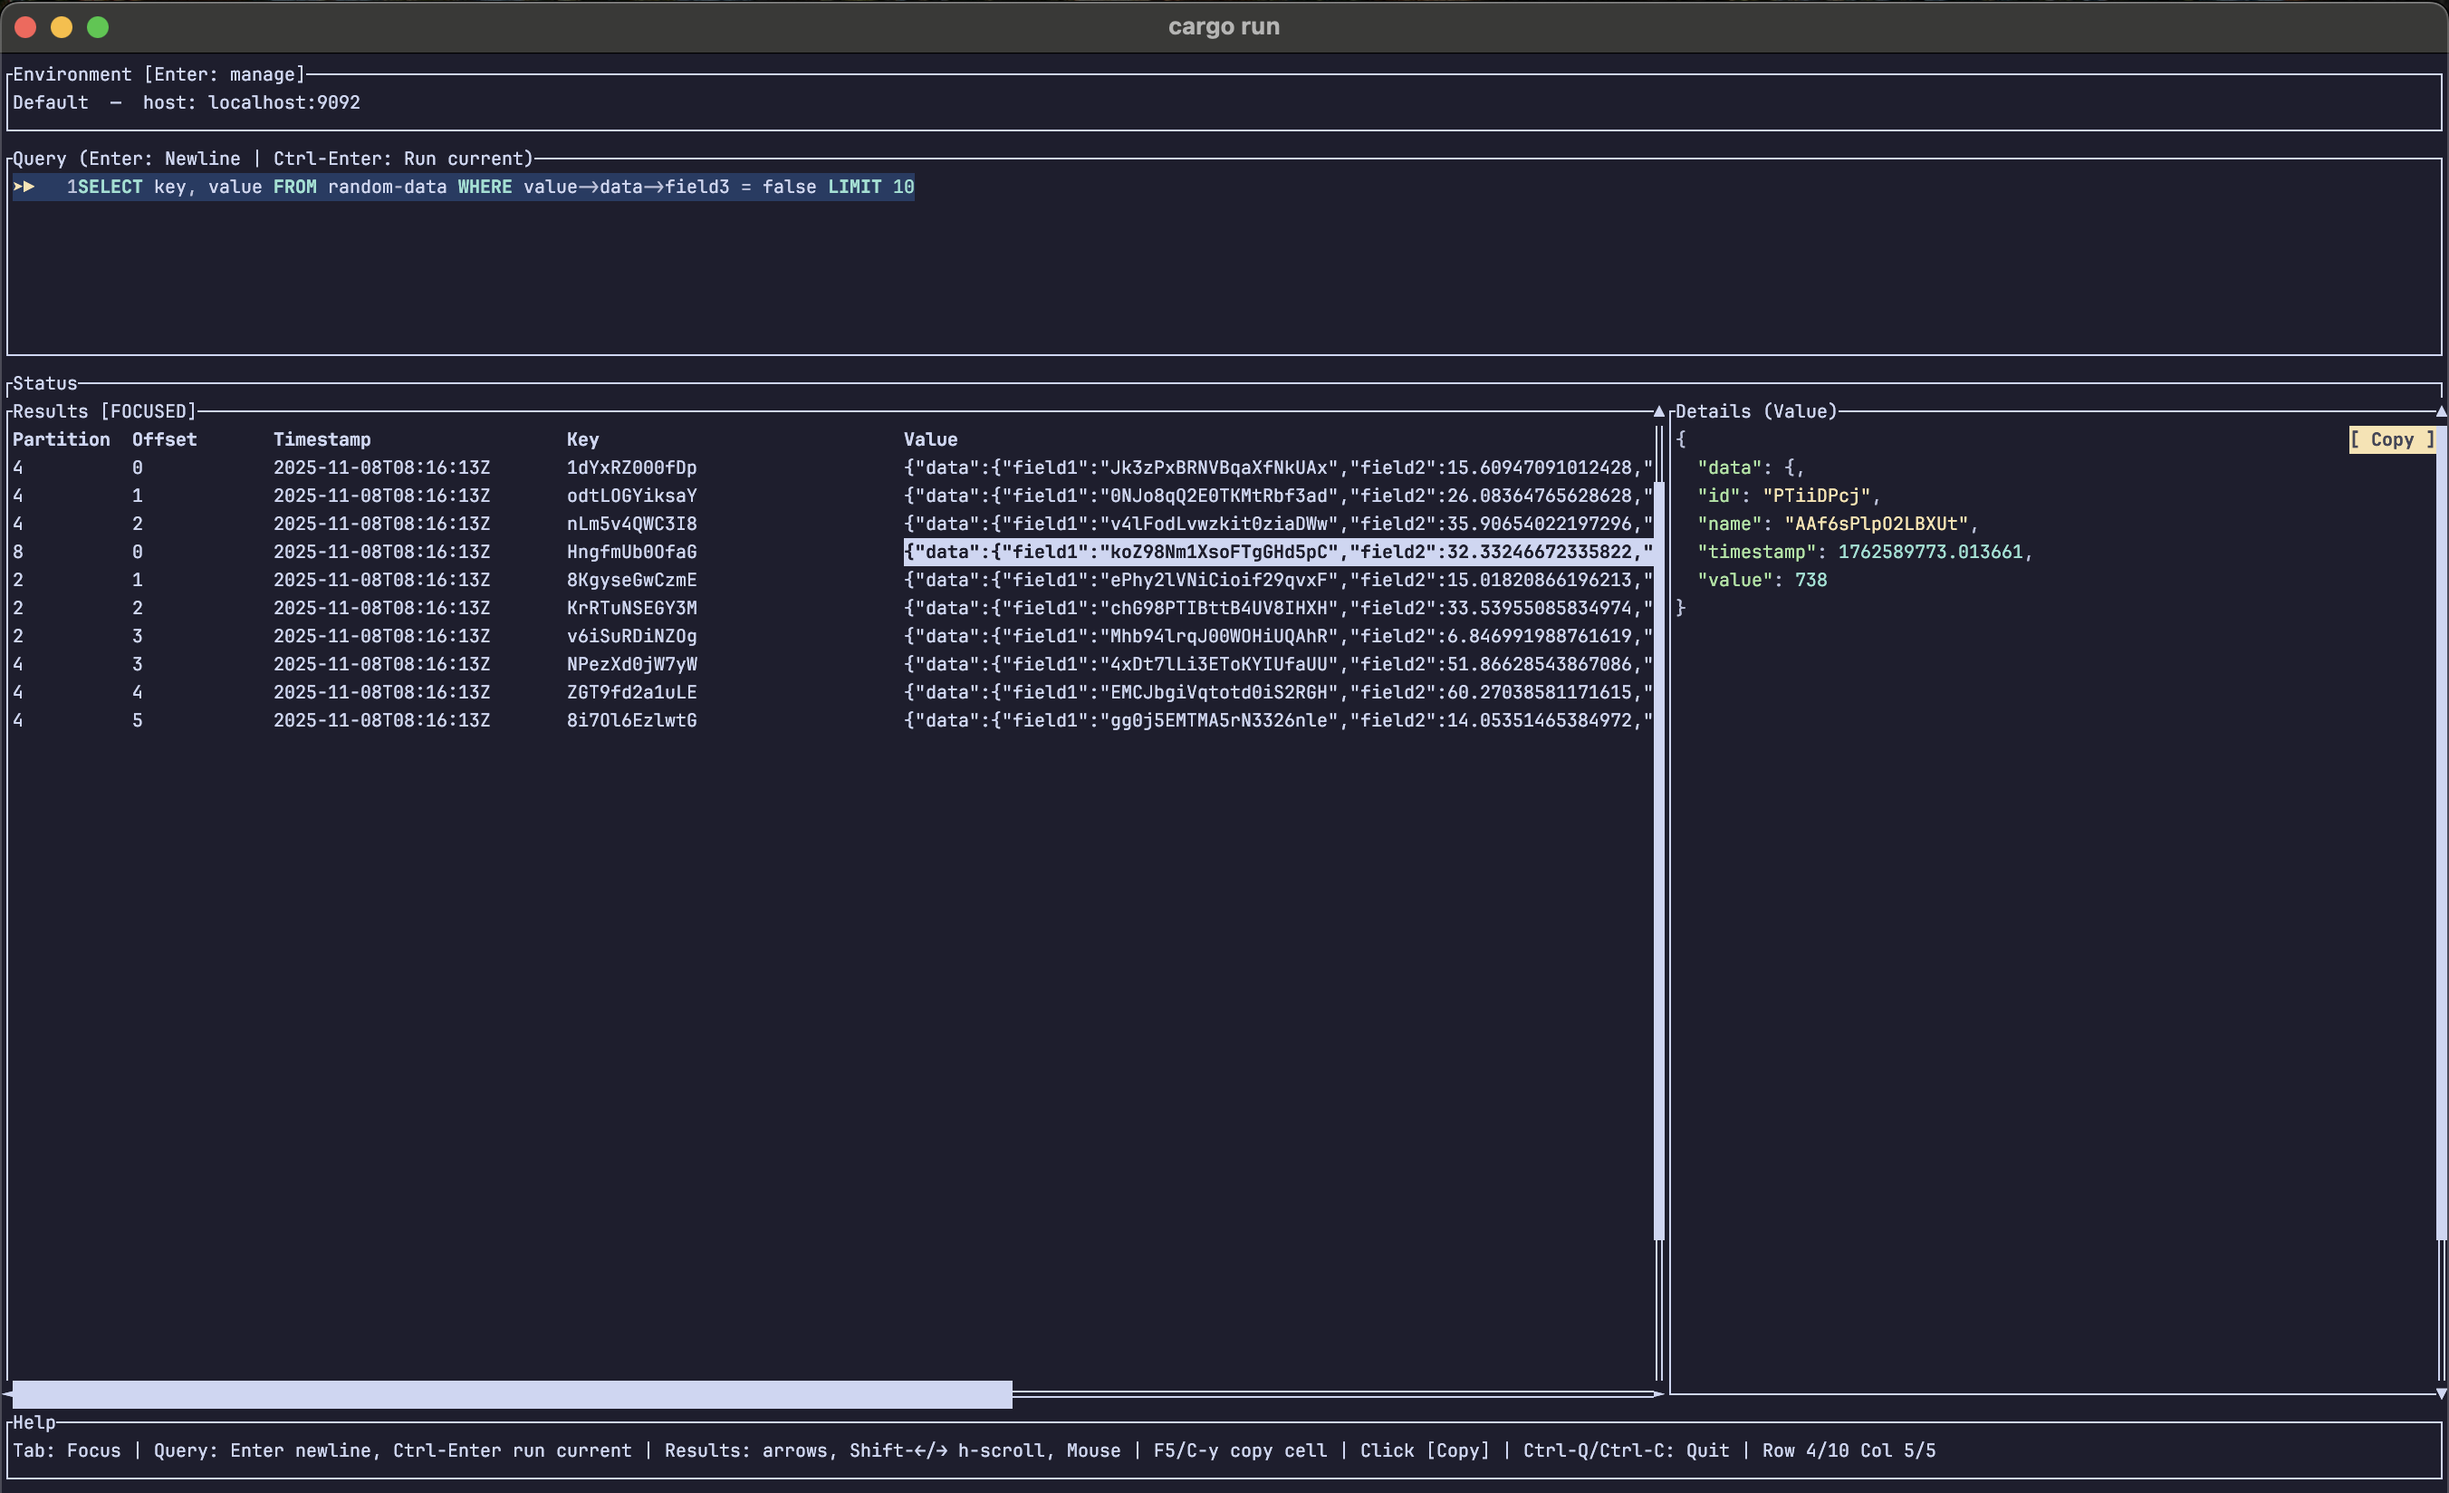
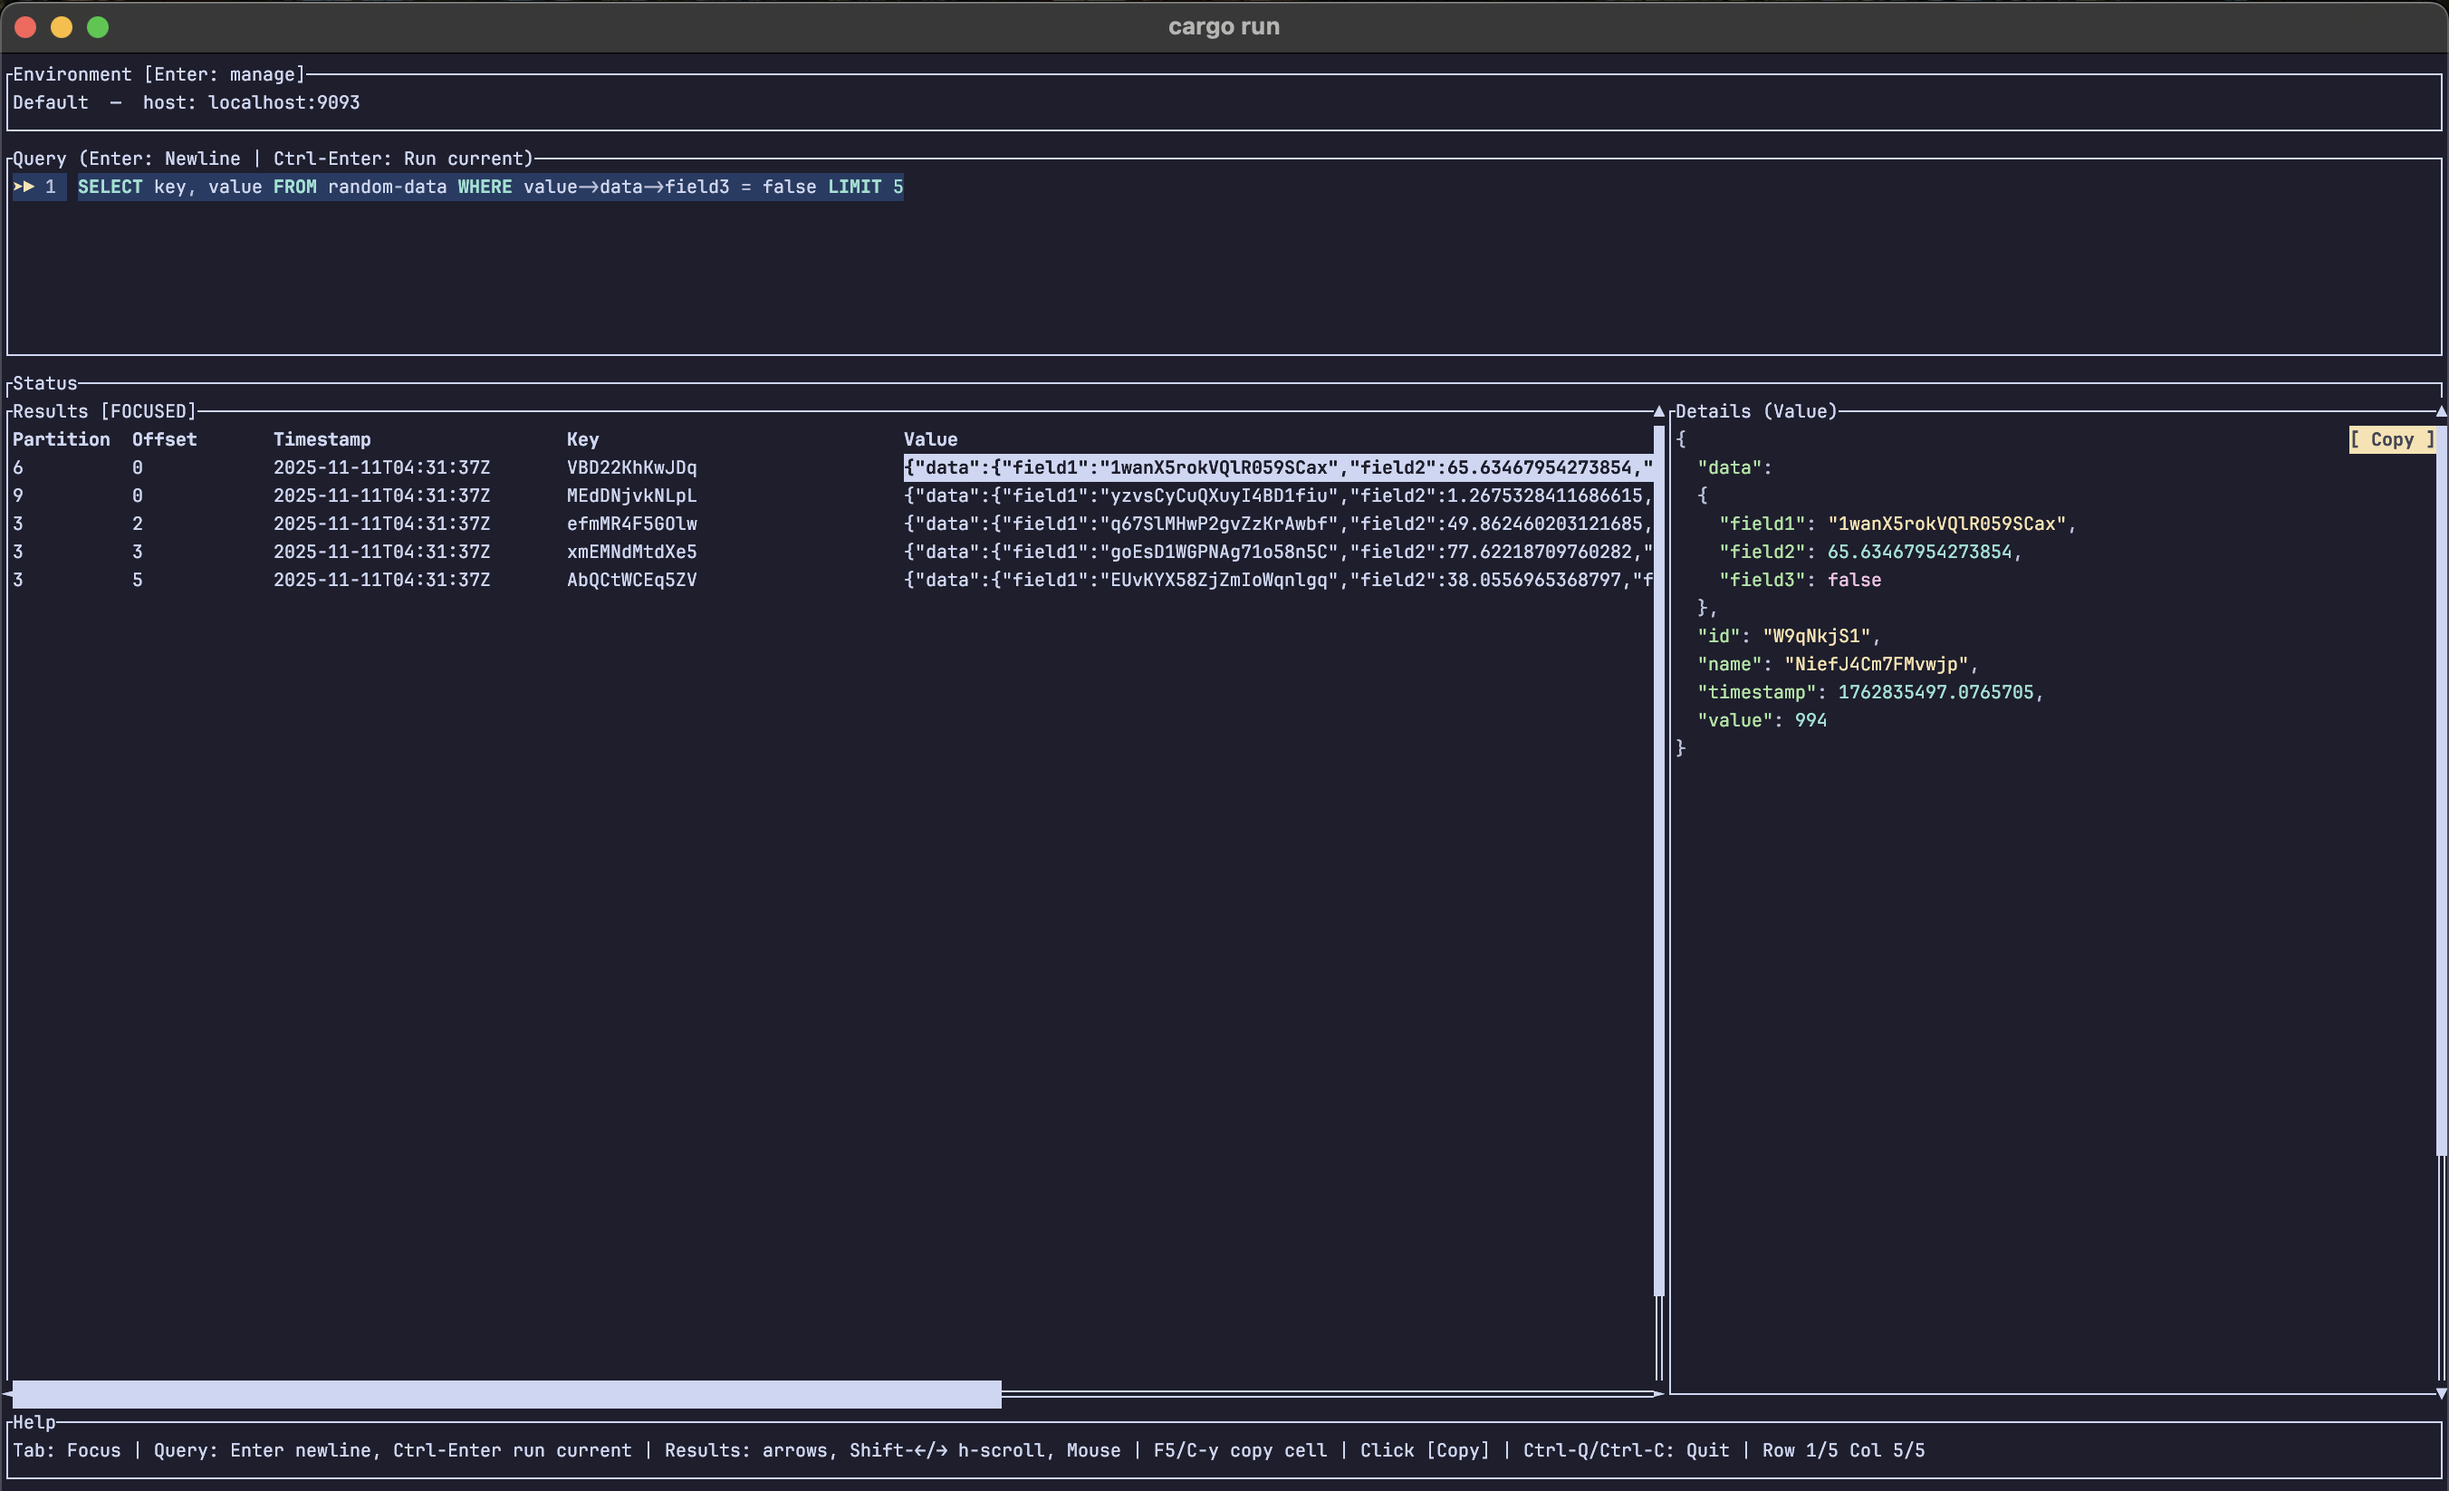
Added gutter spacing between line number and query; Fixed JSON full display in results

diff --git a/src/tui/ui.rs b/src/tui/ui.rs
@@ -47,17 +47,23 @@ fn draw_input(frame: &mut Frame, area: Rect, app: &AppState) {
     let inner = block.inner(area);
     frame.render_widget(block, area);
 
-    // Split inner into gutter and content
+    // Split inner into gutter and content. Gutter width is dynamic to always
+    // preserve a visible gap between line numbers and content, even when
+    // markers like the last-run pointer are shown.
+    let text = &app.input;
+    let lines: Vec<&str> = text.split('\n').collect();
+    let max_lineno_digits = lines.len().max(1).to_string().len() as u16;
+    let marker_max = 2u16; // e.g., "➤▶" can take two cells
+    let gap = 1u16;        // fixed one-space gap to content
+    let gutter_width: u16 = (marker_max + 1 + max_lineno_digits + gap).max(6);
     let cols = Layout::default()
         .direction(Direction::Horizontal)
-        .constraints([Constraint::Length(6), Constraint::Min(1)])
+        .constraints([Constraint::Length(gutter_width), Constraint::Min(1)])
         .split(inner);
     let gutter = cols[0];
     let content = cols[1];
 
     // Compute line starts to style per-line highlights, and find query ranges
-    let text = &app.input;
-    let lines: Vec<&str> = text.split('\n').collect();
     let line_starts: Vec<usize> = {
         let mut v = Vec::with_capacity(lines.len());
         let mut acc = 0usize;
@@ -103,7 +109,8 @@ fn draw_input(frame: &mut Frame, area: Rect, app: &AppState) {
         let is_cur = intersects(lstart, lend, cur_q_start, cur_q_end);
         let is_last = last_range.map(|(ls, le)| intersects(lstart, lend, ls, le)).unwrap_or(false);
         let marker = if is_cur && Some(i) == last_first_line { "➤▶" } else if is_cur { "➤" } else if Some(i) == last_first_line || is_last { "▶" } else { " " };
-        let no = format!("{:>3}", i + 1);
+        // Align line numbers based on max digits to keep layout stable
+        let no = format!("{:>width$}", i + 1, width = max_lineno_digits as usize);
         // Add an extra trailing space after the line number to separate gutter from content
         let mut line = Line::from(vec![
             Span::styled(marker, Style::default().fg(Color::Yellow)),
@@ -292,9 +299,9 @@ fn render_scrolled_field(frame: &mut Frame, area: Rect, title: &str, text: &str,
 
 fn crop_lines(text: &str, vscroll: usize, hscroll: usize, max_w: usize, max_h: usize) -> Vec<Line<'static>> {
     let mut out: Vec<Line> = Vec::new();
-    let mut skipped = 0usize;
+    let mut _skipped = 0usize;
     for (i, line) in text.split('\n').enumerate() {
-        if i < vscroll { skipped += 1; continue; }
+        if i < vscroll { _skipped += 1; continue; }
         if out.len() >= max_h { break; }
         let slice = if line.len() > hscroll { &line[hscroll.min(line.len())..] } else { "" };
         let visible = if slice.len() > max_w { &slice[..max_w] } else { slice };
@@ -588,54 +595,103 @@ fn make_json_cell_and_height(s: &str) -> (Text<'static>, u16) {
 }
 
 fn json_to_highlighted_lines(v: &serde_json::Value) -> Vec<Line<'static>> {
-    let mut lines: Vec<Line> = Vec::new();
-    fn push_indent(buf: &mut std::string::String, n: usize) { for _ in 0..n { buf.push(' '); } }
-    fn walk(v: &serde_json::Value, depth: usize, out: &mut Vec<Line>) {
+    // Pretty-print JSON into multiple lines with Postman-like colors:
+    // - keys: green, strings: yellow, numbers: cyan, booleans: magenta, null: dark gray, punctuation: gray
+    fn indent(depth: usize) -> Span<'static> { Span::raw(" ".repeat(depth * 2)) }
+    fn punct(s: &str) -> Span<'static> { Span::styled(s.to_string(), Style::default().fg(Color::Gray)) }
+    fn string_span(s: &str) -> Span<'static> { Span::styled(format!("\"{}\"", s), Style::default().fg(Color::Yellow)) }
+    fn number_span(n: &serde_json::Number) -> Span<'static> { Span::styled(n.to_string(), Style::default().fg(Color::Cyan)) }
+    fn bool_span(b: bool) -> Span<'static> { Span::styled(b.to_string(), Style::default().fg(Color::Magenta)) }
+    fn null_span() -> Span<'static> { Span::styled("null".to_string(), Style::default().fg(Color::DarkGray)) }
+
+    fn render_scalar(val: &serde_json::Value) -> Vec<Span<'static>> {
+        match val {
+            serde_json::Value::String(s) => vec![string_span(s)],
+            serde_json::Value::Number(n) => vec![number_span(n)],
+            serde_json::Value::Bool(b) => vec![bool_span(*b)],
+            serde_json::Value::Null => vec![null_span()],
+            _ => vec![Span::raw(String::new())],
+        }
+    }
+
+    fn render_value(v: &serde_json::Value, depth: usize, out: &mut Vec<Line<'static>>) {
         match v {
-            serde_json::Value::Null => out.push(Line::from(vec![Span::styled("null", Style::default().fg(Color::DarkGray))])),
-            serde_json::Value::Bool(b) => out.push(Line::from(vec![Span::styled(b.to_string(), Style::default().fg(Color::Magenta))])),
-            serde_json::Value::Number(n) => out.push(Line::from(vec![Span::styled(n.to_string(), Style::default().fg(Color::Cyan))])),
-            serde_json::Value::String(s) => out.push(Line::from(vec![Span::styled(format!("\"{}\"", s), Style::default().fg(Color::Yellow))])),
+            serde_json::Value::Null | serde_json::Value::Bool(_) | serde_json::Value::Number(_) | serde_json::Value::String(_) => {
+                let mut spans = Vec::new();
+                spans.push(indent(depth));
+                spans.extend(render_scalar(v));
+                out.push(Line::from(spans));
+            }
             serde_json::Value::Array(arr) => {
-                out.push(Line::from(vec![Span::styled("[", Style::default().fg(Color::Gray))]));
-                for (i, item) in arr.iter().enumerate() {
-                    let mut buf = std::string::String::new();
-                    push_indent(&mut buf, (depth + 1) * 2);
-                    let mut inner: Vec<Span> = vec![Span::raw(buf)];
-                    let mut tmp: Vec<Line> = Vec::new();
-                    walk(item, depth + 1, &mut tmp);
-                    if let Some(mut line) = tmp.into_iter().next() {
-                        inner.append(&mut line.spans);
+                if arr.is_empty() {
+                    out.push(Line::from(vec![indent(depth), punct("[]")]));
+                } else {
+                    out.push(Line::from(vec![indent(depth), punct("[")]));
+                    for (i, item) in arr.iter().enumerate() {
+                        let before_len = out.len();
+                        render_value(item, depth + 1, out);
+                        // append comma to the last rendered line for this item if not last
+                        if i + 1 != arr.len() {
+                            let idx = out.len().saturating_sub(1);
+                            if let Some(last) = out.get_mut(idx) {
+                                last.spans.push(punct(","));
+                            }
+                        }
+                        // ensure at least one line was added
+                        if out.len() == before_len {
+                            out.push(Line::from(vec![indent(depth + 1), punct("" )]));
+                        }
                     }
-                    if i + 1 != arr.len() { inner.push(Span::styled(",", Style::default().fg(Color::Gray))); }
-                    out.push(Line::from(inner));
+                    out.push(Line::from(vec![indent(depth), punct("]")]));
                 }
-                let mut buf = std::string::String::new(); push_indent(&mut buf, depth * 2);
-                out.push(Line::from(vec![Span::raw(buf), Span::styled("]", Style::default().fg(Color::Gray))]));
             }
             serde_json::Value::Object(map) => {
-                out.push(Line::from(vec![Span::styled("{", Style::default().fg(Color::Gray))]));
-                let len = map.len();
-                for (i, (k, val)) in map.iter().enumerate() {
-                    let mut buf = std::string::String::new(); push_indent(&mut buf, (depth + 1) * 2);
-                    let mut spans = vec![
-                        Span::raw(buf),
-                        Span::styled(format!("\"{}\"", k), Style::default().fg(Color::Green)),
-                        Span::styled(": ", Style::default().fg(Color::Gray)),
-                    ];
-                    let mut tmp: Vec<Line> = Vec::new(); walk(val, depth + 1, &mut tmp);
-                    if let Some(mut first) = tmp.into_iter().next() {
-                        spans.append(&mut first.spans);
+                if map.is_empty() {
+                    out.push(Line::from(vec![indent(depth), punct("{}")]));
+                } else {
+                    out.push(Line::from(vec![indent(depth), punct("{")]));
+                    let len = map.len();
+                    for (i, (k, val)) in map.iter().enumerate() {
+                        match val {
+                            serde_json::Value::Null | serde_json::Value::Bool(_) | serde_json::Value::Number(_) | serde_json::Value::String(_) => {
+                                let mut spans = Vec::new();
+                                spans.push(indent(depth + 1));
+                                spans.push(Span::styled(format!("\"{}\"", k), Style::default().fg(Color::Green)));
+                                spans.push(punct(": "));
+                                spans.extend(render_scalar(val));
+                                if i + 1 != len { spans.push(punct(",")); }
+                                out.push(Line::from(spans));
+                            }
+                            _ => {
+                                // complex value: print key on its own line, then nested structure
+                                let mut key_line = Vec::new();
+                                key_line.push(indent(depth + 1));
+                                key_line.push(Span::styled(format!("\"{}\"", k), Style::default().fg(Color::Green)));
+                                key_line.push(punct(":"));
+                                out.push(Line::from(key_line));
+
+                                let before_len = out.len();
+                                render_value(val, depth + 1, out);
+                                if i + 1 != len {
+                                    let idx = out.len().saturating_sub(1);
+                                    if let Some(last) = out.get_mut(idx) {
+                                        last.spans.push(punct(","));
+                                    }
+                                }
+                                if out.len() == before_len {
+                                    out.push(Line::from(vec![indent(depth + 1), punct("")]));
+                                }
+                            }
+                        }
                     }
-                    if i + 1 != len { spans.push(Span::styled(",", Style::default().fg(Color::Gray))); }
-                    out.push(Line::from(spans));
+                    out.push(Line::from(vec![indent(depth), punct("}")]));
                 }
-                let mut buf = std::string::String::new(); push_indent(&mut buf, depth * 2);
-                out.push(Line::from(vec![Span::raw(buf), Span::styled("}", Style::default().fg(Color::Gray))]));
             }
         }
     }
-    walk(v, 0, &mut lines);
+
+    let mut lines: Vec<Line<'static>> = Vec::new();
+    render_value(v, 0, &mut lines);
     lines
 }
 

diff --git a/src/tui/runner.rs b/src/tui/runner.rs
@@ -621,6 +621,7 @@ fn selected_cell_text(app: &AppState) -> Option<String> {
     Some(s)
 }
 
+#[allow(dead_code)]
 fn ensure_ca_file_for_env(name_hint: &str, pem: &str) -> Result<String> {
     let dir = config_dir();
     std::fs::create_dir_all(&dir).context("create env dir for CA")?;
@@ -630,6 +631,7 @@ fn ensure_ca_file_for_env(name_hint: &str, pem: &str) -> Result<String> {
     Ok(path.to_string_lossy().to_string())
 }
 
+#[allow(dead_code)]
 fn sanitize(name: &str) -> String {
     name
         .chars()

diff --git a/src/tui/app.rs b/src/tui/app.rs
@@ -156,5 +156,6 @@ pub struct EnvEditor {
 #[derive(Debug, Copy, Clone, PartialEq, Eq)]
 pub enum EnvFieldFocus { Name, Host, PrivateKey, PublicKey, Ca, Conn, Buttons }
 
+#[allow(dead_code)]
 #[derive(Debug, Copy, Clone, PartialEq, Eq)]
 pub enum CaInputMode { Pem, Location }
